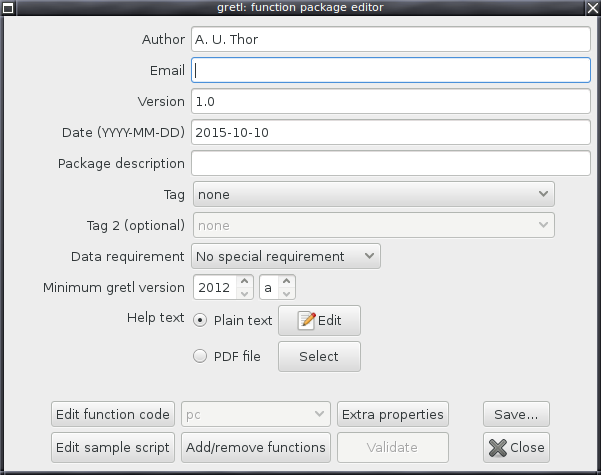
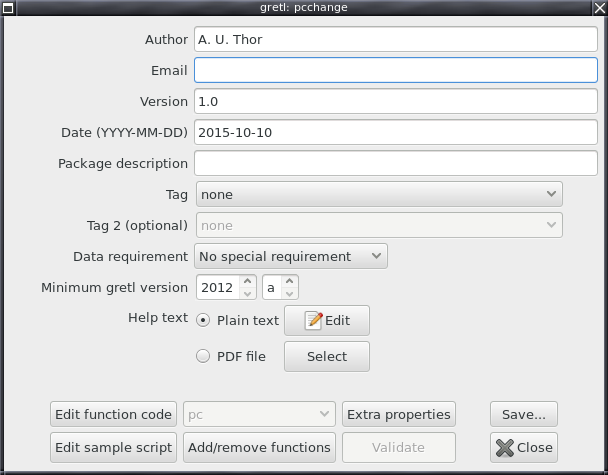
add comment on selecting PDF doc; update screenshot

diff --git a/doc/tex/pkgbook.tex b/doc/tex/pkgbook.tex
@@ -174,8 +174,8 @@ with some tips on usage.
 
 Please note that many of the statements and illustrations in this
 \textit{Guide} reflect refinements made to gretl's package management
-facilities since the release of gretl version 1.10.1. If you plan to
-follow along you should update to gretl 1.10.2 or higher.
+facilities over recent months. If you plan to follow along you should
+update to gretl 2015d or higher.
 
 %%%%%%%%%%%%%%%% chapter break %%%%%%%%%%%%%%%%%
 
@@ -1130,7 +1130,9 @@ zero or more ``private'' helper functions.
 \begin{figure}[htbp]
   \centering
   \includegraphics[scale=0.5]{figures/newpkg}
-  \caption{Starting a new function package}
+  \caption{Starting a new function package: you specify a name for the
+    package and select the functions to be included from the list on
+    the left.}
   \label{fig:startpkg}
 \end{figure}
 
@@ -1140,11 +1142,10 @@ package. So, at this point, you select the \cmd{pc} function from the
 left-hand panel and put it into the ``Public functions'' box. You also
 give the package a name. Leave off the \texttt{gfn} extension, that
 will be added as required; here we name the package \texttt{pcchange}.
- 
 
 \begin{figure}[htbp]
   \centering
-  \includegraphics[scale=0.5]{figures/package_editor}
+  \includegraphics[scale=0.55]{figures/package_editor}
   \caption{The package editor window}
   \label{fig:package_editor}
 \end{figure}
@@ -1153,11 +1154,12 @@ On clicking \textsf{OK} a second dialog should appear (see
 Figure~\ref{fig:package_editor}), where you get to enter the package
 information (author, email, version, date, etc.). Unless you have a
 PDF file containing help, you should also enter help text for the
-public interface (use the \textsf{Edit} button to open a text entry
-window).  You have a further chance to edit the code of the
-function(s) to be packaged, by clicking on \textsf{Edit function
-  code}.  (If the package contains more than one function, a drop-down
-selector will be shown.)
+public interface: use the \textsf{Edit} button to open a text entry
+window. (If you have documentation in PDF format, see
+section~\ref{sec:gui-pdf}.) You have a further chance to edit the code
+of the function(s) to be packaged, by clicking on \textsf{Edit
+  function code}.  (If the package contains more than one function, a
+drop-down selector will be shown.)
 
 And you get to (in fact, you \textit{must}) add a sample script that
 exercises your package.  This will be helpful for potential users, and
@@ -1219,6 +1221,30 @@ second you'll get a regular File Save dialog box. The advantage of the
 first choice is that the package will be found automatically by gretl.
 However, if you're just experimenting and don't want to ``install''
 the package yet, by all means choose a different location.
+
+\subsection{Adding PDF documentation}
+\label{sec:gui-pdf}
+
+The prerequisite here is that you have available a suitable PDF file
+containing documentation for your package. We can't help you with
+that. But if you have such a file, then click on the \textsf{PDF file}
+radio button to the right of the ``Help text'' field in the package
+editor. If you have already entered plain-text help you will see a
+dialog box warning you that this will be lost (not right away, but if
+and when you save the package). Otherwise you go straight to a file
+chooser window where you select the PDF file.
+
+To be included with your package, the PDF file must (a) be in the same
+location as the \textsf{gfn} file, and (b) have the same ``basename''
+(for example \texttt{mypkg.pdf} if the package is called
+\textsf{mypkg}). Nonetheless, you can select a PDF file of any name
+from any location, and gretl will take care of copying it into place
+under the correct name. But please note: if gretl has to copy the file
+into place, any changes made to the PDF in its original location will
+\textit{not} propagate to the copy included in the package. Having
+selected PDF documentation, however, you can use the \textsf{Select}
+button (see Figure~\ref{fig:package_editor}) to check where gretl is
+finding the file, or to update it from another location.
 
 \subsection{Check your package!}
 
@@ -2473,8 +2499,8 @@ the \textsf{Extra properties} button.
   or more slash-separated elements, using the internal representation
   of the menu tree in \texttt{gretlmain.xml} or
   \texttt{gretlmodel.xml}---these XML UI files can be found in the
-  gretl source package or in CVS.\footnote{See
-    \url{http://gretl.cvs.sourceforge.net/viewvc/gretl/gretl/gui2/}}
+  gretl source package or in git.\footnote{See
+    \url{http://sourceforge.net/p/gretl/git/ci/master/tree/gui2/}.}
 
   \ttusage{menu-attachment = MODELWIN/Analysis}
 
@@ -2652,7 +2678,7 @@ For many years, gretl version identifiers have taken the form
 conference in Berlin in the summer of 2015 it was suggested (and
 broadly accepted) that this scheme doesn't make a great deal of sense
 for gretl releases (although it does make good sense for software
-\texttt{libraries} that are widely used by other programs, for reasons
+\textit{libraries} that are widely used by other programs, for reasons
 that we needn't go into here---but see \url{http://semver.org/} if
 you're interested).
 
@@ -2660,8 +2686,8 @@ The idea is that the development of gretl is a more or less continuous
 process, and it's more relevant to identify gretl releases by the year
 of the release (e.g.\ 2015) plus a letter to represent the release
 sequence in any given year: so \texttt{2015a}, \texttt{2015b}, and so
-on. (Not that we're devoted to copying anyone else, but this is how
-\textsf{Matlab} currently identifies its releases.)
+on.\footnote{Not that we're devoted to copying anyone else, but this
+  is how \textsf{Matlab} currently identifies its releases.}
 
 For authors of function packages the question arises: given this
 change, how should you identify the minimal gretl version with which
@@ -2673,8 +2699,8 @@ new style for gretl \texttt{2015d} onward. In the GUI package editor
 only the new style is supported. The gretl ChangeLog
 (\url{http://gretl.sourceforge.net/ChangeLog.html}) can be used to map
 from historical identifiers to their new-style equivalents. For
-example 1.9.8 maps to \texttt{2012a} (being the first release in
-2012).
+example, the old-style version number \texttt{1.9.8} maps to
+\texttt{2012a} (being the first release in 2012).
 
 \chapter{Zip package details}
 \label{chap:zipfile}

diff --git a/gui2/fnsave.c b/gui2/fnsave.c
@@ -1835,29 +1835,28 @@ static gboolean pdf_press_callback (GtkWidget *button,
 				    GdkEvent  *event,
 				    function_info *finfo)
 {
-    const gchar *msg, *query;
-    gchar *text;
-    int resp;
+    int resp = GRETL_YES;
     gboolean ret = TRUE; /* block */
 
-    msg = N_("Switching to PDF help means that you must supply\n"
-	     "a PDF file containing help text for your package.\n\n");
-
-    query = N_("Switch to PDF help now?");
-    
     if (finfo->help != NULL && strlen(finfo->help) > 128) {
 	/* Seems like we may have a usable plain text help
 	   buffer in place -- so warn the user.
 	*/
-	gchar *extra = N_("It also means that any existing plain text help\n"
-			  "will be lost when the package is saved.\n\n");
-	
-	text = g_strconcat(msg, extra, query, NULL);
-    } else {
-	text = g_strconcat(msg, query, NULL);
-    }
+	const gchar *msg1, *msg2, *query;
+	gchar *text;
 
-    resp = yes_no_dialog(NULL, text, finfo->dlg);
+	msg1 = N_("Switching to PDF help means that you must supply\n"
+		  "a PDF file containing help text for your package.\n\n");
+
+	msg2 = N_("It also means that any existing plain text help\n"
+		  "will be lost when the package is saved.\n\n");
+
+	query = N_("Switch to PDF help now?");
+	
+	text = g_strconcat(_(msg1), _(msg2), _(query), NULL);
+	resp = yes_no_dialog(NULL, text, finfo->dlg);
+	g_free(text);
+    }
 
     if (resp == GRETL_YES) {
 	g_free(finfo->pdfname);
@@ -1870,8 +1869,6 @@ static gboolean pdf_press_callback (GtkWidget *button,
 	    ret = FALSE;
 	}
     }
-
-    g_free(text);
 
     return ret;
 }
